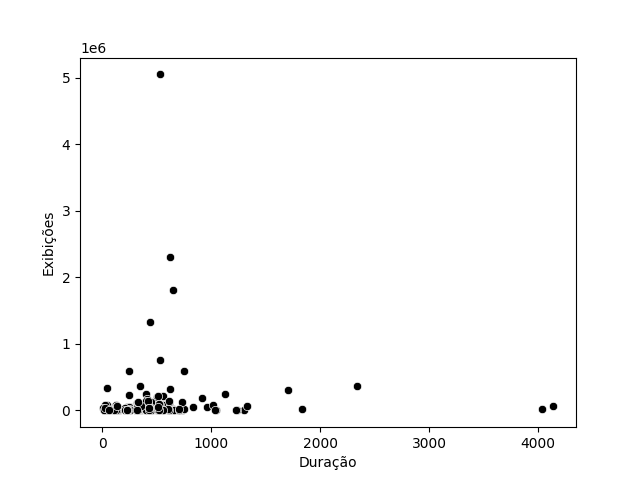
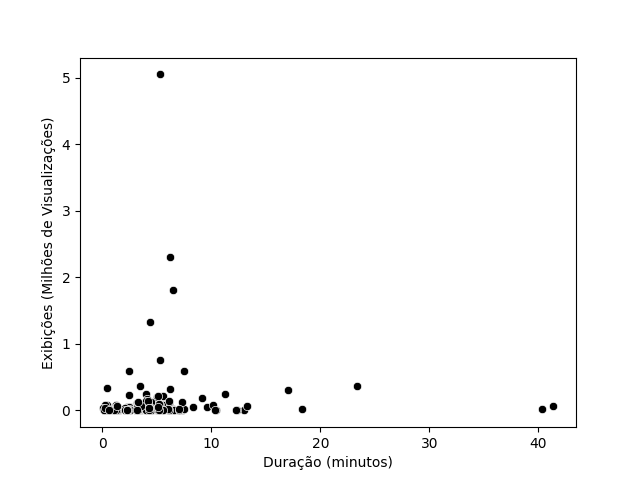
Finalize a função graf_dur_vis

diff --git a/visualizações/criar_seaborns.py b/visualizações/criar_seaborns.py
@@ -1,15 +1,22 @@
 import pandas as pd
 import matplotlib.pyplot as plt
 import seaborn as sb
-from respondendo_perguntas import respostas_grupo_3 as g3
-from respondendo_perguntas import respostas_grupo_2 as g2
-from respondendo_perguntas import respostas_grupo_1 as g1
+
 import sys
 
 sys.path.insert(0, "../")
 
+from respondendo_perguntas import respostas_grupo_3 as g3
+from respondendo_perguntas import respostas_grupo_2 as g2
+from respondendo_perguntas import respostas_grupo_1 as g1
 
 def graf_dur_vis(nome_arquivo: str):
+    """Gera um gráfico com a relação entre a duração da música
+        e o número de visualizações
+
+    :param nome_arquivo: Nome do arquivo onde os dados estão contidos
+    :type nome_arquivo: str
+    """    
     df = pd.read_excel(nome_arquivo, "informacoes_musicas")
 
     nome_grafico = "graf_dur_vis.png"
@@ -17,17 +24,14 @@ def graf_dur_vis(nome_arquivo: str):
 
     df.reset_index(inplace=True)
 
-    ax = sb.scatterplot(x=df["Duração"],
-                        y=df["Exibições"],
+    ax = sb.scatterplot(x=df["Duração"]/100,
+                        y=df["Exibições"]/ 1000000,
                         color="black", markers=False)
 
-    ax.set(xlabel="Duração", ylabel="Exibições")
+    ax.set(xlabel = "Duração (minutos)",
+            ylabel="Exibições (Milhões de Visualizações)")
     fig = ax.get_figure()
     fig.savefig(caminho_graf)
-
-    return nome_grafico
-
-# print(graf_dur_vis("../informacoes_pink_floyd.xlsx"))
 
 
 def graf_var_letra_mus(nome_arquivo: str):
@@ -36,12 +40,10 @@ def graf_var_letra_mus(nome_arquivo: str):
 
     :param nome_arquivo: Nome do arquivo onde os dados estão contidos
     :type nome_arquivo: str
-    :return: Nome do arquivo da imagem gerada
-    :rtype: str
     """
     df = g3.var_letra_mus(nome_arquivo)
     nome_grafico = "graf_var_letra_mus.png"
-    caminho_graf = "./arquivos_relatorio/" + nome_grafico
+    caminho_graf = "../arquivos_relatorio/" + nome_grafico
 
     df.reset_index(inplace=True)
 
@@ -74,18 +76,11 @@ def graf_var_letra_mus(nome_arquivo: str):
     fig = ax.get_figure()
     fig.savefig(caminho_graf)
 
-    return nome_grafico
-
-# print(graf_var_letra_mus("../informacoes_pink_floyd.xlsx"))
-
-
 def graf_alb_decada(nome_arquivo: str):
     """Gera um gráfico da relação de álbuns lançados por década
 
     :param nome_arquivo: Nome do arquivo onde os dados estão contidos
     :type nome_arquivo: str
-    :return: Nome do arquivo da imagem gerada
-    :rtype: str
     """
     df = g3.albuns_decada(nome_arquivo)
     df.reset_index(inplace=True)
@@ -110,5 +105,3 @@ def graf_alb_decada(nome_arquivo: str):
 
     fig = ax.get_figure()
     fig.savefig(caminho_graf)
-
-    return nome_grafico
